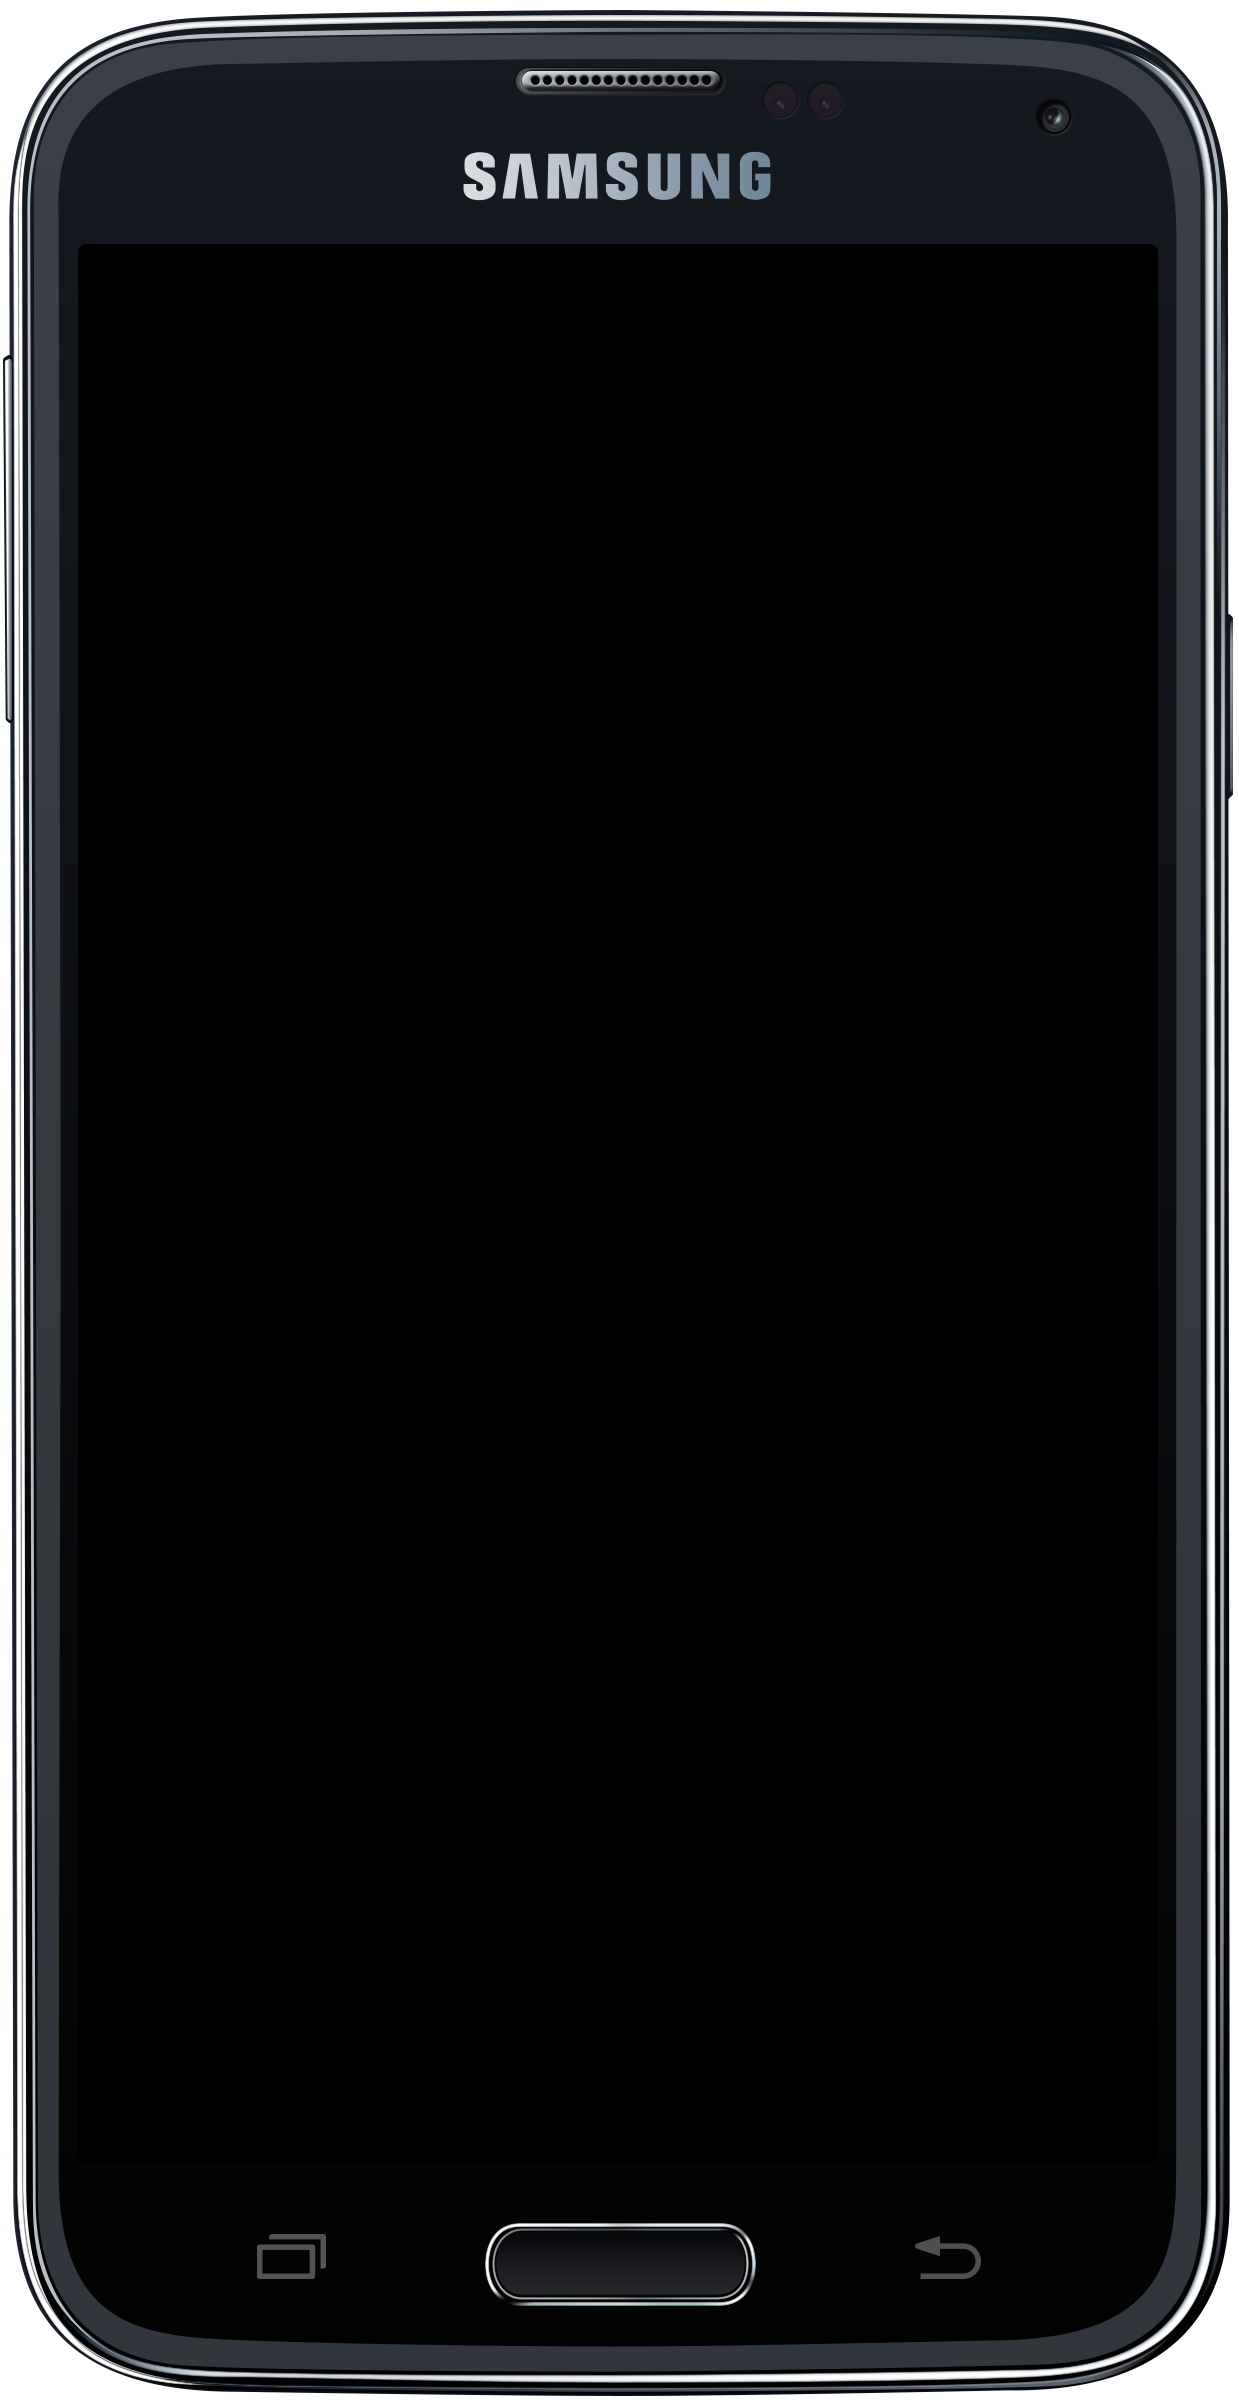
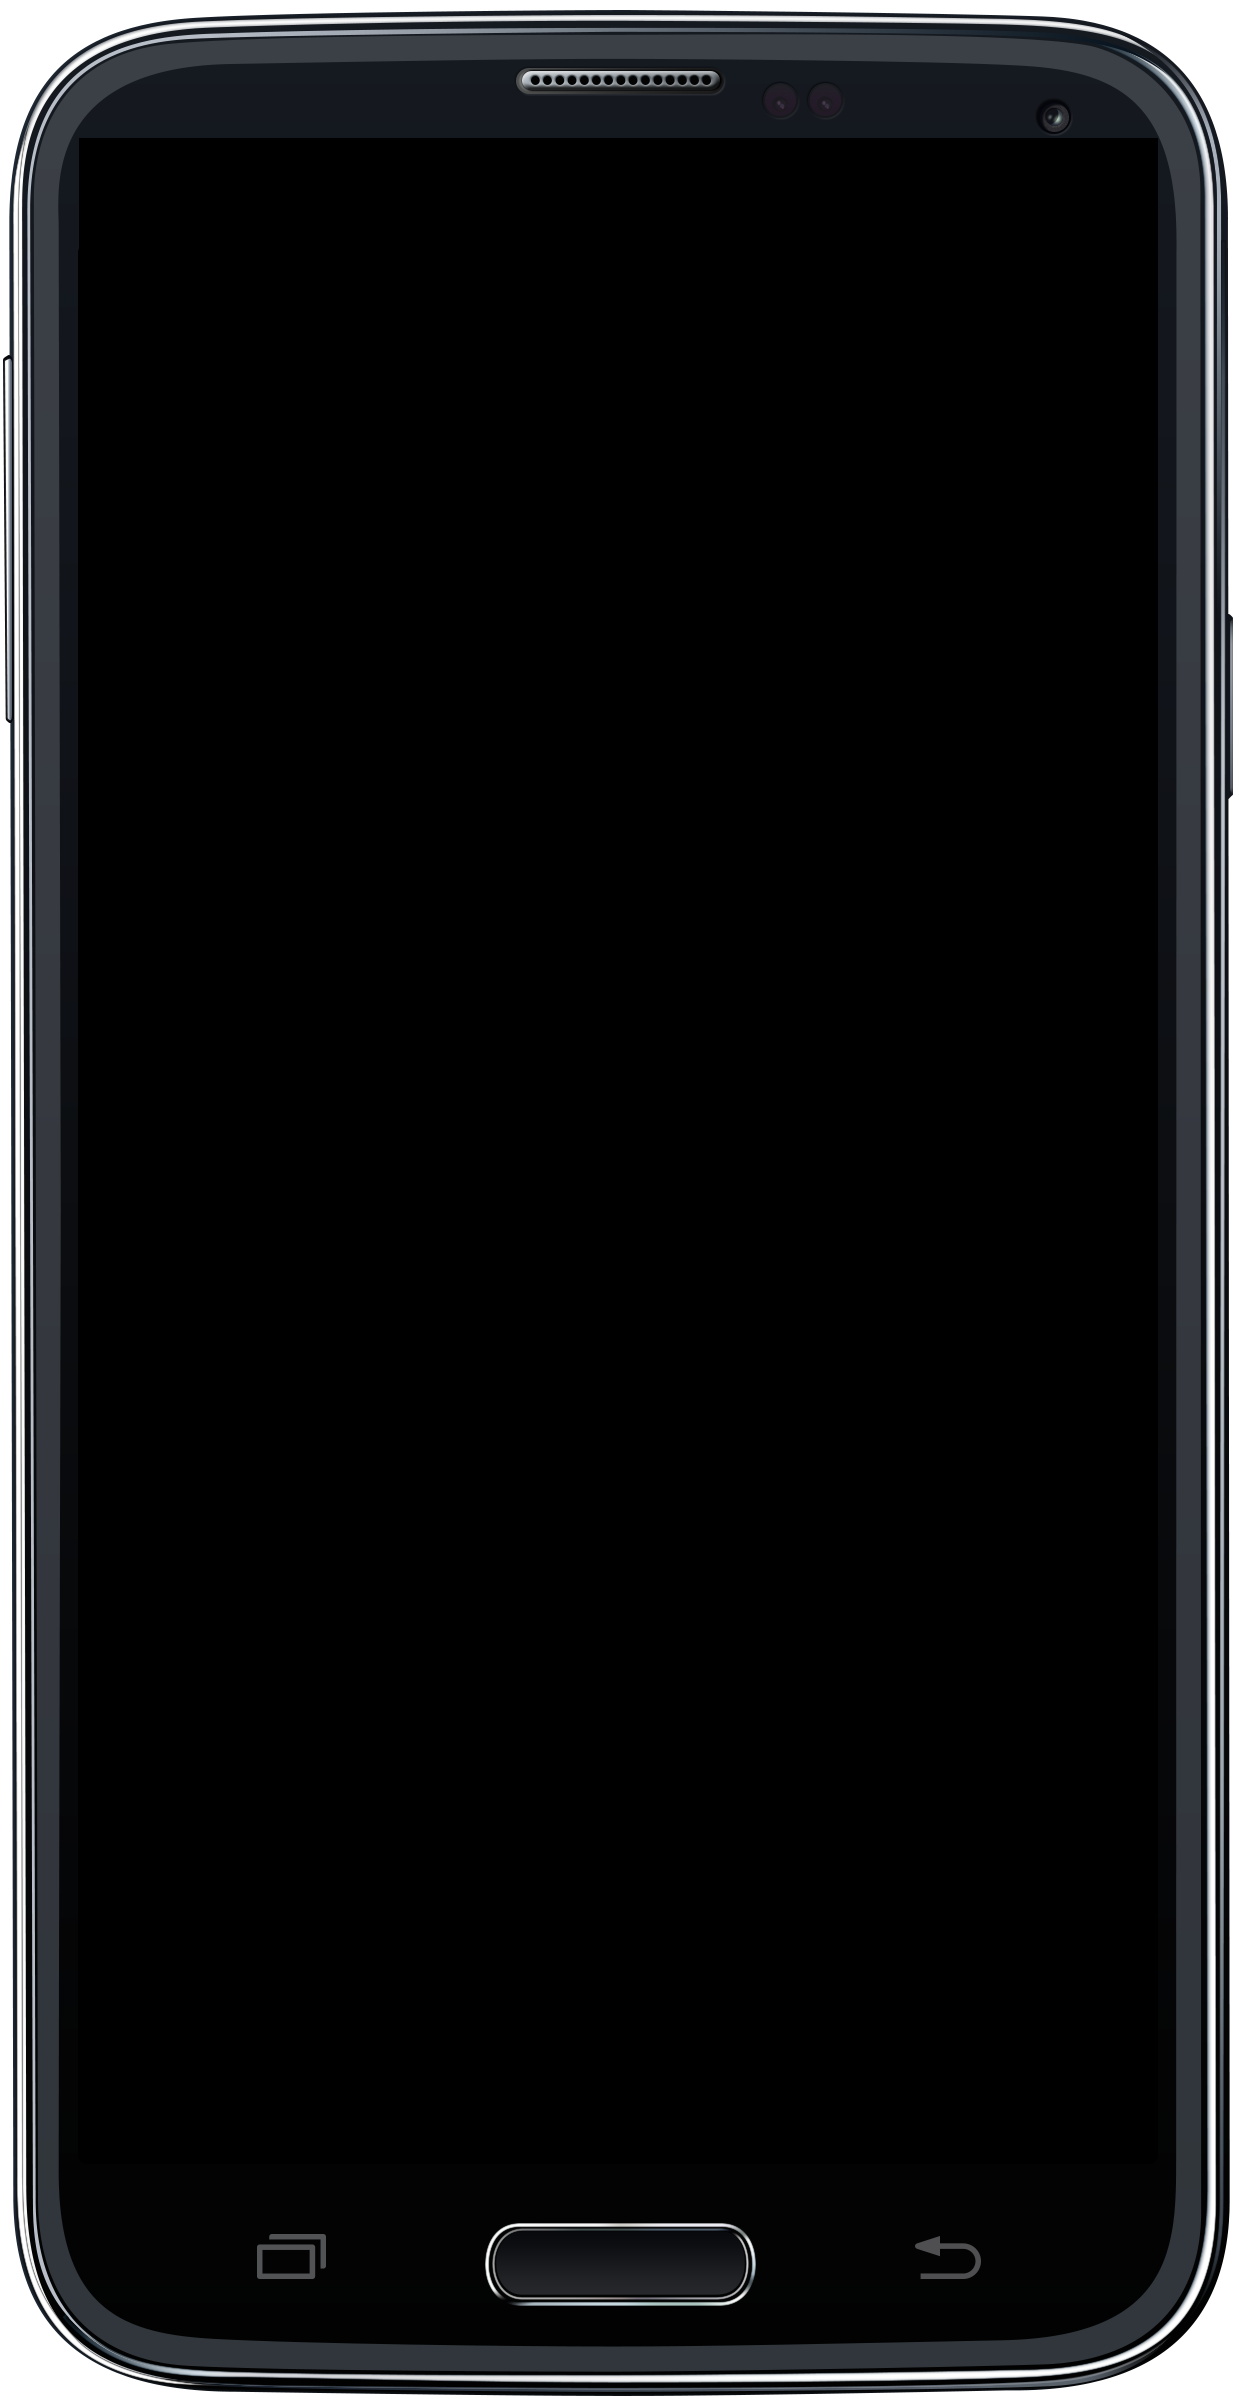
update

Changed region(s): [[0.0613, 0.0312, 0.9508, 0.1247]]

diff --git a/index.html b/index.html
@@ -34,7 +34,7 @@
     <!-- Navigation -->
     <nav class="navbar navbar-expand-lg navbar-light fixed-top" id="mainNav">
       <div class="container">
-        <a class="navbar-brand js-scroll-trigger" href="#page-top">WAPPI</a>
+        <a class="navbar-brand js-scroll-trigger" href="#page-top"><img src="img/wappi.png" style="width: 50px; height: 50px"></a>
         <button class="navbar-toggler navbar-toggler-right" type="button" data-toggle="collapse" data-target="#navbarResponsive" aria-controls="navbarResponsive" aria-expanded="false" aria-label="Toggle navigation">
           Menu
           <i class="fa fa-bars"></i>
@@ -66,7 +66,7 @@
           </div>
           <div class="col-lg-5 my-auto">
             <div class="device-container">
-              <div class="device-mockup galaxy_s5 portrait black">
+              <div class="device-mockup galaxy_s5 portrait white">
                 <div class="device">
                   <div class="screen">
                     <!-- Demo image for screen mockup, you can put an image here, some HTML, an animation, video, or anything else! -->
@@ -109,7 +109,7 @@
         <div class="row">
           <div class="col-lg-4 my-auto">
             <div class="device-container">
-              <div class="device-mockup galaxy_s5 portrait gold">
+              <div class="device-mockup galaxy_s5 portrait white">
                 <div class="device">
                   <div class="screen">
                     <!-- Demo image for screen mockup, you can put an image here, some HTML, an animation, video, or anything else! -->
